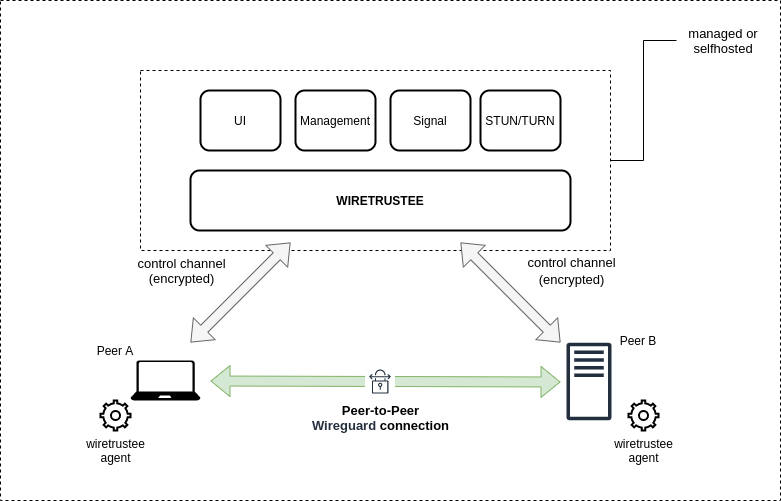
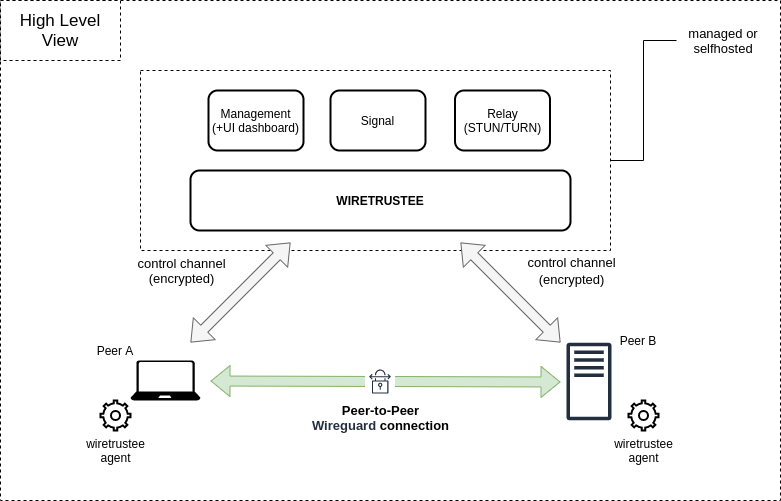
docs: update diagram and Wireguard title (#137)
* docs: update diagram and Wireguard title

Changed region(s): [[0.2458, 0.1796, 0.7375, 0.3293], [0.0, 0.0299, 0.1229, 0.0898]]

diff --git a/docs/README.md b/docs/README.md
@@ -1,7 +1,7 @@
 ### Table of contents
 
 * [About Wiretrustee](#about-wiretrustee)
-* [Why not just Wireguard?](#why-not-just-wireguard)
+* [Why Wireguard with Wiretrustee?](#why-wireguard-with-wiretrustee)
 * [Wiretrustee vs. Traditional VPN](#wiretrustee-vs-traditional-vpn)
 * [High-level technology overview](#high-level-technology-overview)
 * [Getting started](#getting-started)
@@ -16,36 +16,36 @@ There is no centralized VPN server with Wiretrustee - your computers, devices, m
 
 It literally takes less than 5 minutes to provision a secure peer-to-peer VPN with Wiretrustee. Check our [Quickstart Guide Video](https://www.youtube.com/watch?v=cWTsGUJAUaU) to see the setup in action.
 
-### Why not just Wireguard?
+### Why Wireguard with Wiretrustee?
 
-WireGuard is a modern and extremely fast VPN tunnel utilizing state-of-the-art [cryptography](https://www.wireguard.com/protocol/) 
+WireGuard is a modern and extremely fast VPN tunnel utilizing state-of-the-art [cryptography](https://www.wireguard.com/protocol/)
 and Wiretrustee uses Wireguard to establish a secure tunnel between machines.
 
 Built with simplicity in mind, Wireguard ensures that traffic between two machines is encrypted and flowing, however, it requires a few things to be done beforehand.
 
-First, in order to connect, the machines have to be configured. 
-On each machine, you need to generate private and public keys and prepare a WireGuard configuration file. 
+First, in order to connect, the machines have to be configured.
+On each machine, you need to generate private and public keys and prepare a WireGuard configuration file.
 The configuration also includes a private IP address that should be unique per machine.
 
 Secondly, to accept the incoming traffic, the machines have to trust each other.
-The generated public keys have to be pre-shared on the machines. 
+The generated public keys have to be pre-shared on the machines.
 This works similarly to SSH with its authorised_keys file.
 
-Lastly, the connectivity between the machines has to be ensured. 
-To make machines reach one another, you are required to set a WireGuard endpoint property which indicates the IP address and port of the remote machine to connect to. 
-On many occasions, machines are hidden behind firewalls and NAT devices, 
+Lastly, the connectivity between the machines has to be ensured.
+To make machines reach one another, you are required to set a WireGuard endpoint property which indicates the IP address and port of the remote machine to connect to.
+On many occasions, machines are hidden behind firewalls and NAT devices,
 meaning that you may need to configure a port forwarding or open holes in your firewall to ensure the machines are reachable.
 
 The undertakings mentioned above might not be complicated if you have just a few machines, but the complexity grows as the number of machines increases.
 
-Wiretrustee simplifies the setup by automatically generating private and public keys, assigning unique private IP addresses, and takes care of sharing public keys between the machines. 
-It is worth mentioning that the private key never leaves the machine. 
-So only the machine that owns the key can decrypt traffic addressed to it. 
+Wiretrustee simplifies the setup by automatically generating private and public keys, assigning unique private IP addresses, and takes care of sharing public keys between the machines.
+It is worth mentioning that the private key never leaves the machine.
+So only the machine that owns the key can decrypt traffic addressed to it.
 The same applies also to the relayed traffic mentioned below.
 
-Furthermore, Wiretrustee ensures connectivity by leveraging advanced [NAT traversal techniques](https://en.wikipedia.org/wiki/NAT_traversal) 
+Furthermore, Wiretrustee ensures connectivity by leveraging advanced [NAT traversal techniques](https://en.wikipedia.org/wiki/NAT_traversal)
 and removing the necessity of port forwarding, opening holes in the firewall, and having a public static IP address.  
-In cases when a direct peer-to-peer connection isn't possible all traffic is relayed securely between peers.
+In cases when a direct peer-to-peer connection isn't possible, all traffic is relayed securely between peers.
 Wiretrustee also monitors the connection health and restarts broken connections.
 
 There are a few more things that we are working on to make secure private networks simple. A few examples are ACLs, MFA and activity monitoring.
@@ -64,17 +64,17 @@ Centralized VPNs imply all the traffic going through the central server causing 
 Such systems require an experienced team to set up and maintain.
 Configuring firewalls, setting up NATs, SSO integration, and managing access control lists can be a nightmare.
 
-Traditional centralized VPNs are often compared to a [castle-and-moat](https://en.wikipedia.org/wiki/Moat) model 
+Traditional centralized VPNs are often compared to a [castle-and-moat](https://en.wikipedia.org/wiki/Moat) model
 in which once accessed, user is trusted and can access critical infrastructure and resources without any restrictions.
 
 Wiretrustee decentralizes networks using direct point-to-point connections, as opposed to traditional models.
 Consequently, network performance is increased since traffic flows directly between the machines bypassing VPN servers or gateways.
 To achieve this, Wiretrustee client applications employ signalling servers to find other machines and negotiate connections.
-These are similar to the signaling servers used in [WebRTC](https://developer.mozilla.org/en-US/docs/Web/API/WebRTC_API/Signaling_and_video_calling#the_signaling_server)  
+These are similar to the signaling servers used in [WebRTC](https://developer.mozilla.org/en-US/docs/Web/API/WebRTC_API/Signaling_and_video_calling#the_signaling_server)
 
-Thanks to [NAT traversal techniques](https://en.wikipedia.org/wiki/NAT_traversal), 
-outlined in the [Why not just Wireguard?](#why-not-just-wireguard) section above,
-Wiretrustee installation doesn't require complex network and firewall configuration. 
+Thanks to [NAT traversal techniques](https://en.wikipedia.org/wiki/NAT_traversal),
+outlined in the [Why not just Wireguard?](#why-wireguard-with-wiretrustee) section above,
+Wiretrustee installation doesn't require complex network and firewall configuration.
 It just works, minimising the maintenance effort.
 
 Finally, each machine or device in the Wiretrustee network verifies incoming connections accepting only the trusted ones.
@@ -102,4 +102,3 @@ We recommend starting with the cloud managed version hosted at [app.wiretrustee.
 See [Quickstart Guide](../docs/quickstart.md) for instructions.
 
 If you don't want to use the managed version, check out our [Self-hosting Guide](../docs/self-hosting.md).
-
